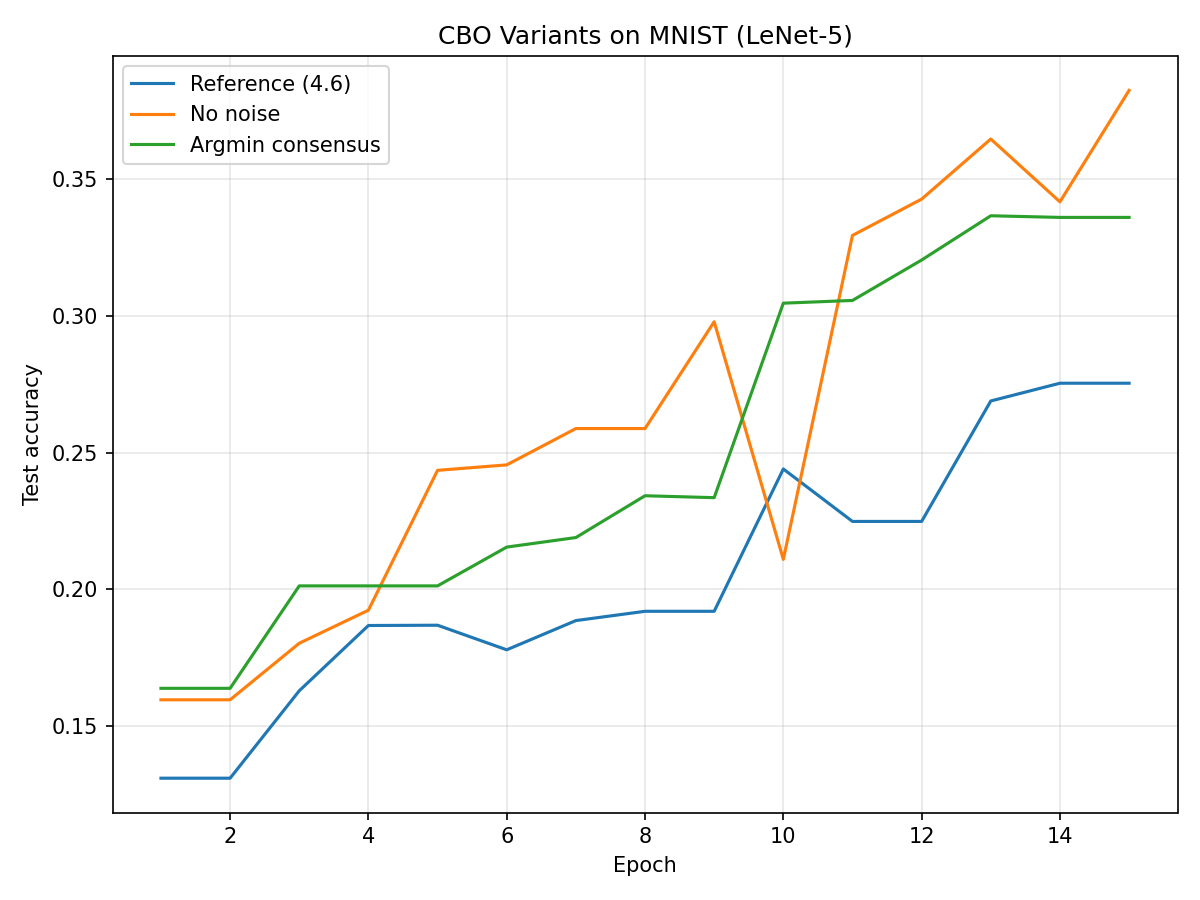
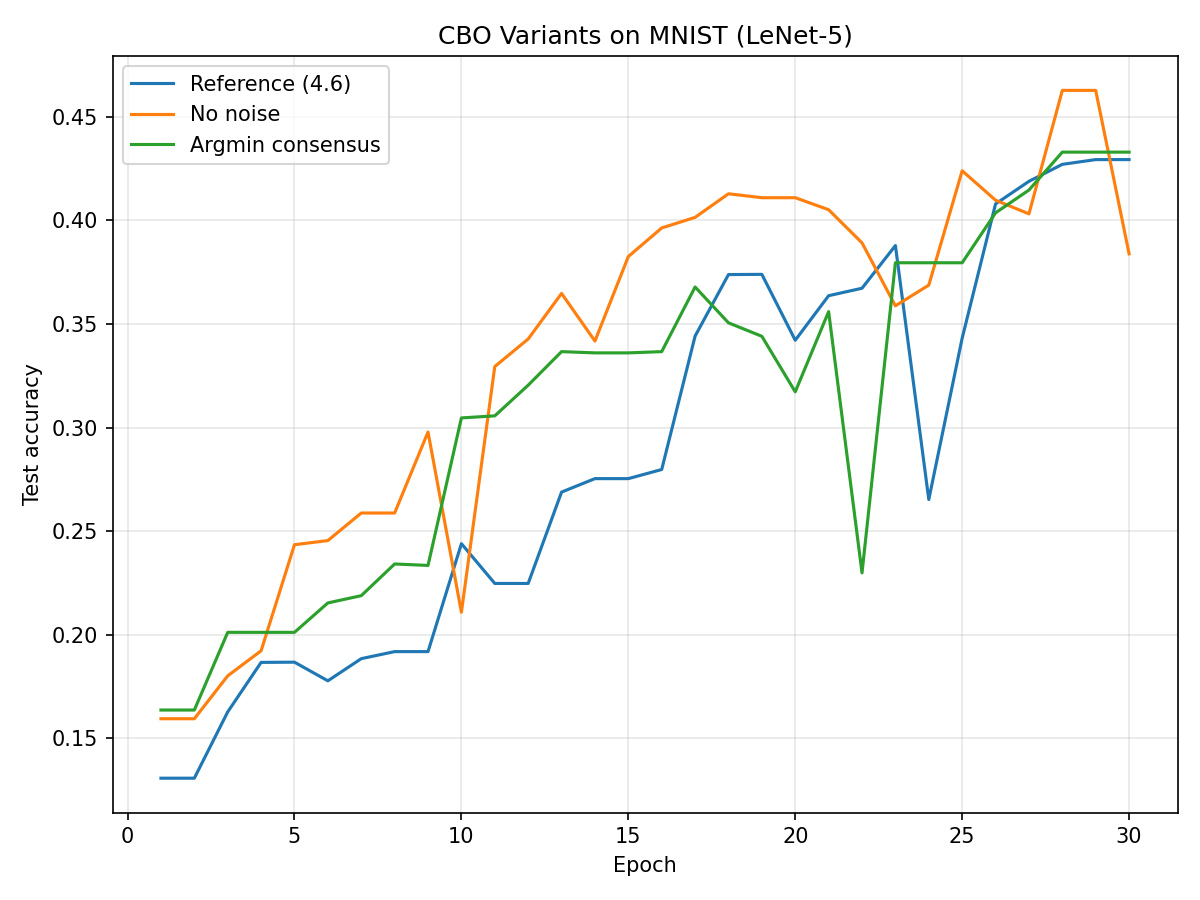
sgd

diff --git a/bc_algorithms.py b/bc_algorithms.py
@@ -30,8 +30,7 @@ def rastrigin(x, B=0.0, C=0.0): # x = (x_1, x_2, ..., x_n)
     # return result of Rastrigin function (array of values)
     return terms.sum(axis=-1) / d + C
 
-def sgd(f, d, domain=(-32,32), n_sims=100, lr=0.01, max_iters=10_000, tol=1e-5, seed=0,
-        n_data=None, batch_size=None):
+def sgd(f, d, domain=(-32,32), n_sims=100, lr=0.01, max_iters=10_000, tol=1e-5, seed=0, n_data=None, batch_size=None):
     """ γ = learning rate/step size
         If n_data is given, f must accept (x, batch_idx) and return the mini-batch loss
         estimate for gradient
@@ -42,6 +41,8 @@ def sgd(f, d, domain=(-32,32), n_sims=100, lr=0.01, max_iters=10_000, tol=1e-5, 
     x = torch.tensor(rng.uniform(lo, hi, size=(n_sims, d)), requires_grad=True)
 
     # HISTORY PLOTS
+    # store all sim positions at each iteration (mirrors cbo's particle_hist)
+    particle_hist = [x.detach().numpy().copy()]
     # store best f(x) value at each iteration
     obj_val_hist = []
     # store RUNNING BEST f(x) value at each iteration
@@ -63,6 +64,9 @@ def sgd(f, d, domain=(-32,32), n_sims=100, lr=0.01, max_iters=10_000, tol=1e-5, 
         with torch.no_grad(): # update active rows only
             x_new = x.clone()
             x_new[active] = x[active] - lr*grad[active] # gradient descent step
+
+        # Position history
+        particle_hist.append(x_new.detach().numpy().copy())
 
         with torch.no_grad():
             # re-use the same mini-batch so the logged loss reflects the step just taken
@@ -92,10 +96,10 @@ def sgd(f, d, domain=(-32,32), n_sims=100, lr=0.01, max_iters=10_000, tol=1e-5, 
             f_vals = f(x, batch_idx).detach().numpy()
         else:
             f_vals = f(x).detach().numpy()
-    x = x.detach().numpy()
     best_idx = np.argmin(f_vals)
 
-    return (x[best_idx], best_val_hist[-1], np.array(x), np.array(f_vals), np.array(obj_val_hist), np.array(best_val_hist))
+    # best x pos, running best obj val, particle hist, ending f vals, obj val hist, running best hist
+    return (particle_hist[-1][best_idx], best_val_hist[-1], np.array(particle_hist), np.array(f_vals), np.array(obj_val_hist), np.array(best_val_hist))
 
 
 def consensus_point(x, f_vals, alpha):
@@ -219,7 +223,7 @@ def naive_uniform(f, d, domain=(-32,32)):
     return (x[best_idx], f_vals[best_idx], np.array(x), np.array(f_vals), len(f_vals), v)
 
 if __name__ == "__main__": # runs when this is the main file of this execution
-    print("BASE CASE CBO")
+    print("BASE CASE CBO ON ACKLEY")
 
     best_x, running_best, consensus_hist, part_hist, obj_val_hist, best_val_hist, var_hist = cbo(ackley, d=2, seed=0)
 
@@ -227,6 +231,40 @@ if __name__ == "__main__": # runs when this is the main file of this execution
     print(f"Running Best f(x): {running_best:.6f}")
     print(f"Ending/Best f(x): {obj_val_hist[-1]:.6f}")
     print(f"Iterations: {len(consensus_hist)}")
+    print("True minimum: f(0,0) = 0")
+
+    print("---------------------------------------")
+
+    print("BASE CASE CBO ON RASTRIGIN")
+
+    best_x, running_best, consensus_hist, part_hist, obj_val_hist, best_val_hist, var_hist = cbo(rastrigin, d=2, seed=0)
+
+    print(f"Best x position found: {best_x}")
+    print(f"Running Best f(x): {running_best:.6f}")
+    print(f"Ending/Best f(x): {obj_val_hist[-1]:.6f}")
+    print(f"Iterations: {len(consensus_hist)}")
+    print("True minimum: f(0,0) = 0")
+
+    print("---------------------------------------")
+    print("SGD on ACKLEY")
+
+    best_x, running_best, part_hist, f_vals, obj_val_hist, best_val_hist = sgd(ackley, d=2, seed=0)
+
+    print(f"Best x position found: {best_x}")
+    print(f"Running Best f(x): {running_best:.6f}")
+    print(f"Ending/Best f(x): {obj_val_hist[-1]:.6f}")
+    print(f"Iterations: {len(obj_val_hist)}")
+    print("True minimum: f(0,0) = 0")
+
+    print("---------------------------------------")
+    print("SGD on RASTRIGIN")
+
+    best_x, running_best, part_hist, f_vals, obj_val_hist, best_val_hist = sgd(rastrigin, d=2, domain=(-5.12, 5.12), seed=0)
+
+    print(f"Best x position found: {best_x}")
+    print(f"Running Best f(x): {running_best:.6f}")
+    print(f"Ending/Best f(x): {obj_val_hist[-1]:.6f}")
+    print(f"Iterations: {len(obj_val_hist)}")
     print("True minimum: f(0,0) = 0")
 
     print("---------------------------------------")

diff --git a/MNIST/figure_lenet.py b/MNIST/figure_lenet.py
@@ -17,15 +17,15 @@ def main():
 
     # reference case (2.1, 4.6): full model, with noise, weighted avg consensus
     f_ref = make_lenet_objective(X_train, y_train, m=M_BATCH, seed=0)
-    *_, ref_acc_hist = comp_diff_random_batch_simp(f_ref, d=D_PARAMS, num_epochs=15, tol=0.0, m=M_BATCH, X_test=X_test, y_test=y_test, seed=0, forward_fn=lenet_forward)
+    *_, ref_acc_hist = comp_diff_random_batch_simp(f_ref, d=D_PARAMS, lam=1.0, sigma=np.sqrt(10), num_epochs=10, tol=0.0, dt=1, m=100, X_test=X_test, y_test=y_test, seed=0, forward_fn=lenet_forward)
 
     # no noise variant: same model but with sigma=0
     f_nonoise = make_lenet_objective(X_train, y_train, m=M_BATCH, seed=0)
-    *_, nonoise_acc_hist = comp_diff_random_batch_simp(f_nonoise, d=D_PARAMS, num_epochs=15, sigma=0.0, tol=0.0, m=M_BATCH, X_test=X_test, y_test=y_test, seed=0, kick_sigma=np.sqrt(0.1), forward_fn=lenet_forward)
+    *_, nonoise_acc_hist = comp_diff_random_batch_simp(f_nonoise, d=D_PARAMS, lam=1.0, num_epochs=10, sigma=0.0, tol=0.0, dt=1, m=100, X_test=X_test, y_test=y_test, seed=0, kick_sigma=np.sqrt(0.1), forward_fn=lenet_forward)
 
     # argmin variant: x̄* = argmin over the particle batch, instead of softmax average
     f_argmin = make_lenet_objective(X_train, y_train, m=M_BATCH, seed=0)
-    *_, argmin_acc_hist = comp_diff_random_batch_argmin_simp(f_argmin, d=D_PARAMS, num_epochs=15, tol=0.0, m=M_BATCH, X_test=X_test, y_test=y_test, seed=0, forward_fn=lenet_forward)
+    *_, argmin_acc_hist = comp_diff_random_batch_argmin_simp(f_argmin, d=D_PARAMS, lam=1.0, sigma=np.sqrt(1), num_epochs=10, tol=0.0, dt=1, m=100, X_test=X_test, y_test=y_test, seed=0, forward_fn=lenet_forward)
 
     fig, ax = plt.subplots(figsize=(8, 6))
     for label, acc_hist in [("Reference (4.6)", ref_acc_hist),
@@ -41,7 +41,7 @@ def main():
     ax.grid(alpha=0.3)
 
     plt.tight_layout()
-    plt.savefig("figure_lenet.png", dpi=150)
+    plt.savefig("figure_lenet_parameters.png", dpi=150)
 
 
 if __name__ == "__main__":
